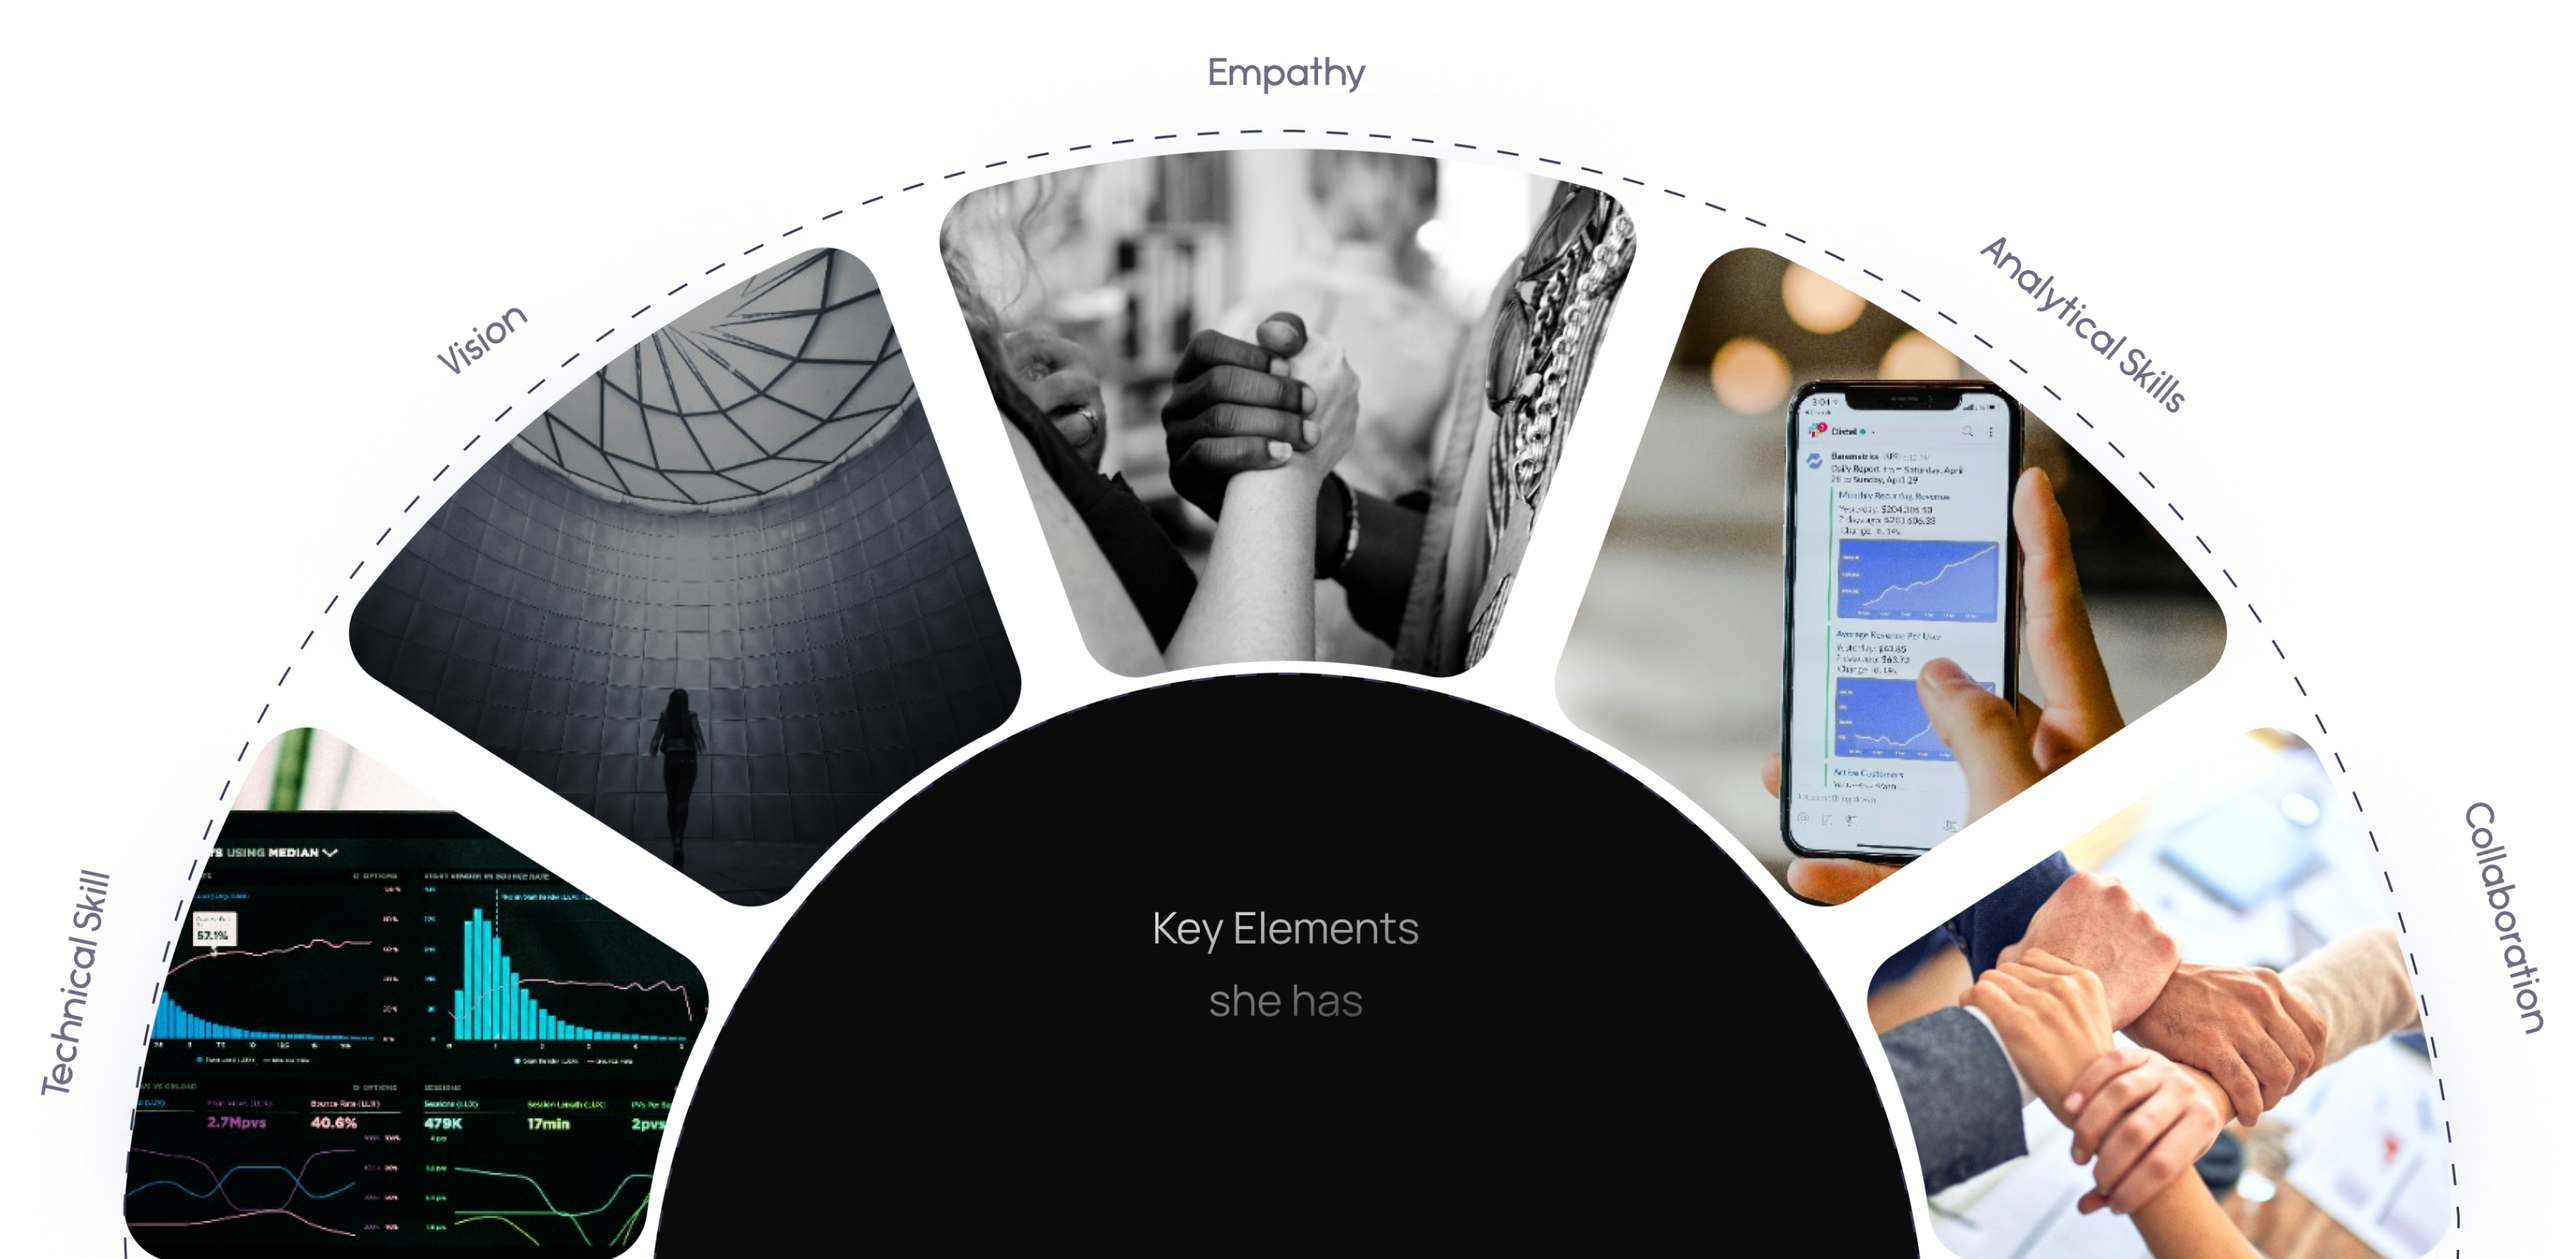
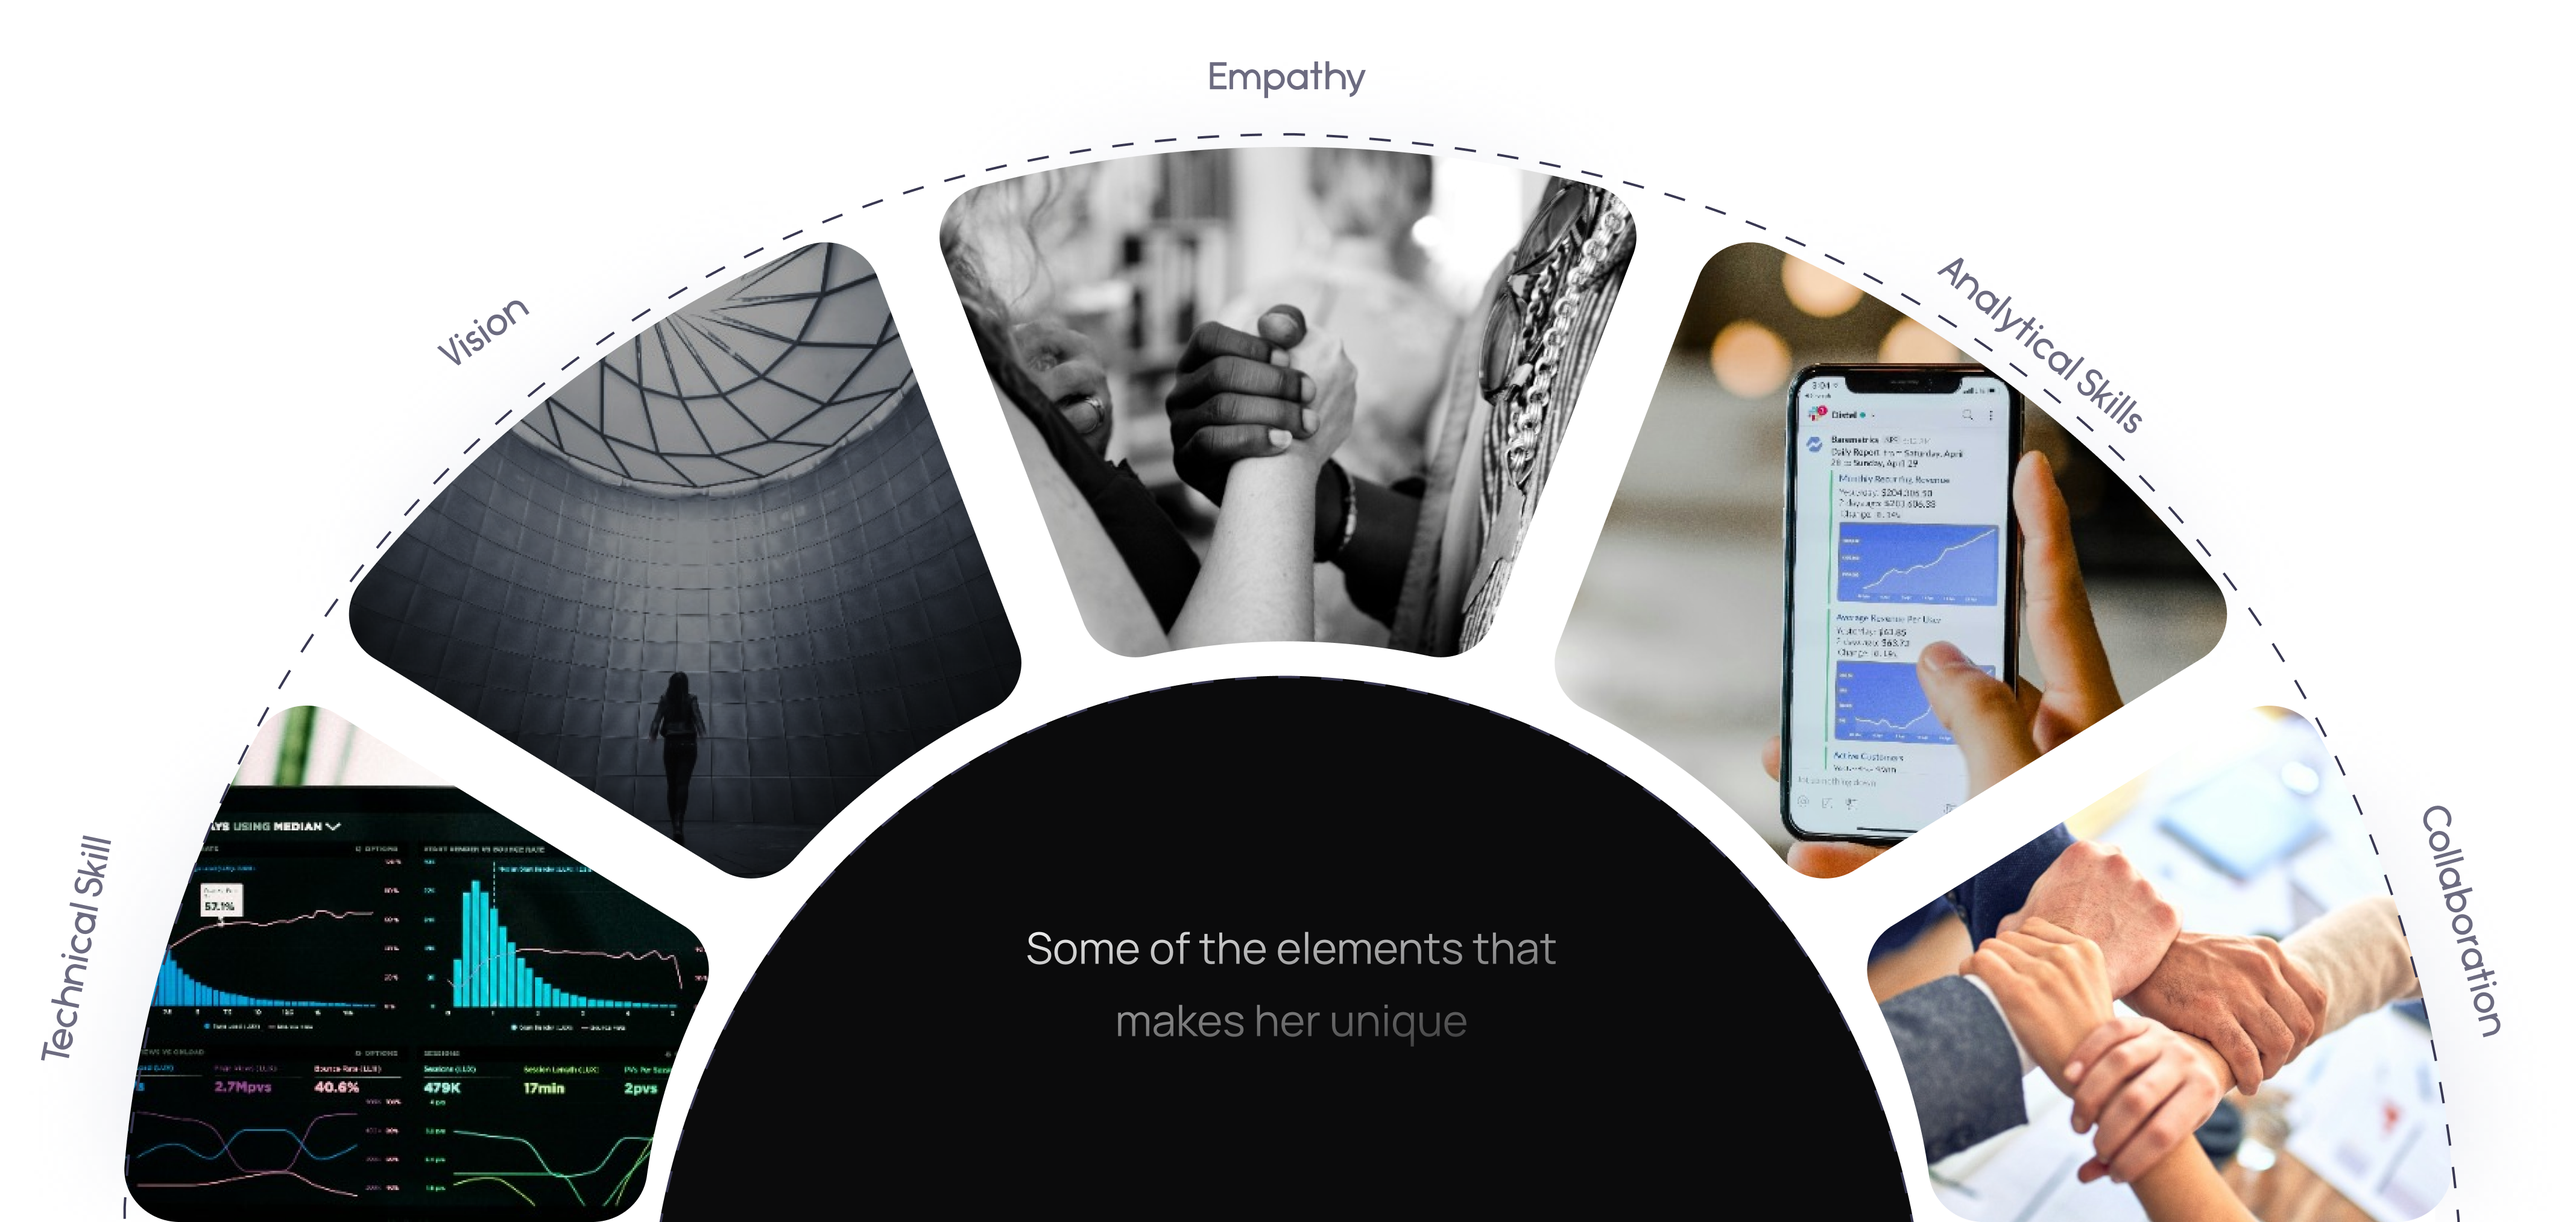
about us responsive remaining

diff --git a/pages/about-her.html b/pages/about-her.html
@@ -12,7 +12,7 @@
 
 <body>
 
-    <div>
+    <!-- <div>
         <div class="fullSec">
             <div class="nav">
                 <img src="assets_pages/logo.png" alt="Logo" class="logo">
@@ -40,7 +40,176 @@
                 </div>
             </div>
         </div>
+    </div> -->
+
+
+
+    <div class="backgroundAbout">
+        <div class="fullSec">
+            <div class="nav">
+                <a href="..\index.html">
+                    <img src="..\assets/logo.png" alt="Logo" class="logo">
+                </a>
+                <div class="menu-toggle">
+                    <div class="bar"></div>
+                    <div class="bar"></div>
+                    <div class="bar"></div>
+                </div>
+                <div id="navLeft">
+                    <div id="itemList">
+                        <ul class="nav_list">
+                            <li><a href="..\index.html">Home</a></li>
+                            <li><a href="../pages/about-her.html" class="active">About Her</a></li>
+                            <li><a href="../pages/projects.html"  >Projects</a></li>
+                            <li><a href="../pages/services.html">Services</a></li>
+                            <li><a href="../pages/contact.html">Contact Her</a></li>
+                        </ul>
+                    </div>
+        
+                    <div class="socialLinks"> 
+                        <a href="https://www.behance.net/ushaaryal1" target="_blank" rel="noopener noreferrer">
+                            <img src="..\assets/behance.png" alt="Behance" class="imageSize">
+                        </a>
+
+                        <a href="https://www.dribbble.com/ushaaryal" target="_blank" rel="noopener noreferrer">
+                            <img src="..\assets/dribbble.png" alt="Dribbble" class="imageSize">
+                        </a>
+                    </div>
+                </div>
+            </div>
+        </div>
+
+        <div class="headingAbout">
+            <div class="leftContainer">
+                <div class="meetContainer">
+                    <h1 class="textProperty8" >Meet Usha Aryal</h1>
+                    <p> Hi, I'm Usha Aryal, a passionate UI/UX Designer with over three years of experience in creating user-centered designs that blend creativity with strategic thinking. Currently, I work at Scodus Innovations, where I bring innovative and user-friendly solutions to life by collaborating closely with cross-functional teams.</p>
+                </div>
+                
+                <div class="btns">
+                    <a href="..\assets\Usha's CV.pdf">
+                        <button class="joinBtn"> Her as a Designer
+                        <i class="fas fa-downlozad"></i>
+                        </button>
+                    </a>
+                    
+                    <a href="..\assets\Usha's CV.pdf">
+                        <button class="joinBtn">Her as a Developer
+                        <i class="fas fa-download"></i>
+                        </button>
+                    </a>
+                </div>
+            </div>
+            
+            <div class="aboutMe"></div>
+
+        </div>
     </div>
+    
+    <div class="keyElements">
+        <div class="elementsContainer">
+            <h3>Know about the key element that makes her special</h3>
+            <div class="elementsCard">
+                <div class="cards">
+                    <div class="cardContent">  
+                        <div class="imgCard"></div>
+                        <div>
+                            <h5>Technical Skill</h5>
+                            <p>Nodpod is a beauty-focused sleepwear brand that believes in the science of deep touch pressure to promote relaxation and restful sleep. Their signature product, the Nodpod Sleep Mask, is a unique and innovative </p>
+                        </div>
+                    </div>
+                </div>
+
+                <div class="cards">
+                    <div class="cardContent"> 
+                        <div class="imgCard"></div>
+                        <div>
+                            <h5>Vision</h5>
+                            <p>Nodpod is a beauty-focused sleepwear brand that believes in the science of deep touch pressure to promote relaxation and restful sleep. Their signature product, the Nodpod Sleep Mask, is a unique and innovative </p>
+                        </div>
+                    </div>
+                </div>
+
+                <div class="cards">
+                    <div class="cardContent"> 
+                        <div class="imgCard"></div>
+                        <div>
+                            <h5>Empathy</h5>
+                            <p>Nodpod is a beauty-focused sleepwear brand that believes in the science of deep touch pressure to promote relaxation and restful sleep. Their signature product, the Nodpod Sleep Mask, is a unique and innovative </p>
+                        </div>
+                    </div>
+                </div>
+
+                <div class="cards">
+                    <div class="cardContent"> 
+                        <div class="imgCard"></div>
+                        <div>
+                            <h5>Analytical Skills </h5>
+                            <p>Nodpod is a beauty-focused sleepwear brand that believes in the science of deep touch pressure to promote relaxation and restful sleep. Their signature product, the Nodpod Sleep Mask, is a unique and innovative </p>
+                        </div>
+                    </div>
+                </div>
+
+                <div class="cards">
+                    <div class="cardContent"> 
+                        <div class="imgCard"></div>
+                        <div>
+                            <h5>Collaboration skills</h5>
+                            <p>Nodpod is a beauty-focused sleepwear brand that believes in the science of deep touch pressure to promote relaxation and restful sleep. Their signature product, the Nodpod Sleep Mask, is a unique and innovative </p>
+                        </div>
+                    </div>
+                </div>
+            </div>
+        </div>
+    </div>
+
+    <div class="join">
+        <div class="last-email-container">
+            <div class="email-downloadcv-container">
+                <h2 class="textGradient textt"> Hii, Let's create something awesome together.</h2>
+                <div class="buttons">
+                    <a href="mailto:u8900038@example.com">
+                        <button class="joinBtn">Email Her
+                            <i class="fas fa-envelope"></i> 
+                        </button>
+                    </a>
+                    
+                    <a href="..\assets\Usha's CV.pdf">
+                        <button class="joinBtn">Download  CV
+                        <i class="fas fa-download"></i>
+                        </button>
+                    </a>
+                </div>
+            </div>  
+        </div>
+    </div>
+
+    <div>
+        <div>
+            <div class="footer"> 
+                <ul class="footer_list">
+                    <li><a href="../pages/about-her.html">About Her</a></li>
+                    <li><a href="../pages/projects.html">Projects</a></li>
+                    <li><a href="../pages/services.html">Services</a></li>
+                    <li><a href="../pages/contact.html">Contact Her</a></li>
+                </ul>
+                <div class="socialLinks"> 
+                    <a href="https://www.behance.net/ushaaryal1" target="_blank" rel="noopener noreferrer">
+                        <img src="..\assets/behance.png" alt="Behance" class="imageSize linkFooter">
+                    </a>
+
+                    <a href="https://www.dribbble.com/ushaaryal" target="_blank" rel="noopener noreferrer">
+                        <img src="..\assets/dribbble.png" alt="Dribbble" class="imageSize linkFooter">
+                    </a>
+                </div>
+                <h7> ©2024 usha portfolio. All rights reserved </h7>
+            </div>
+            
+        </div>
+    </div>
+    
+
+    <script src="script.js"></script>
 
 
 </body>

diff --git a/pages/style.css b/pages/style.css
@@ -1843,4 +1843,123 @@ section {
 
 
   
+/* about us  */
+
+.backgroundAbout{
+    background: url("../assets/about-me-background.png") center/cover no-repeat;
+    height: 840px;
+    margin: 0;
+}
+
+.backgroundAbout .meetContainer{
+    width: 510px;
+}
+
+
+.headingAbout{
+    display: flex;
+    flex-direction: row;
+    gap: 28px;
+    flex-shrink: 0;
+    align-items: center;
+    justify-content: center;
+}
+
+.headingAbout .leftContainer{
+    height:520px;
+}
+
+.headingAbout h1{
+    line-height: 123%;
+    height: 100px;
+    text-align: left;
+}
+
+.textProperty8{
+    background: linear-gradient(272deg, #ebeaea 60%, #828080 86.45%, #141415 113.83%);
+    background-clip: text;
+    -webkit-background-clip: text;
+    -webkit-text-fill-color: transparent;
+}
+
+.headingAbout p{
+    color: #9A99A5;
+    font-size: 18px;
+    font-weight: 400;
+    line-height: 182%;
+    margin-bottom: 50px;
+}
+
+.aboutMe{
+    background: url("../assets/aboutMe.png") center/cover no-repeat;
+    width: 598px;
+    height: 568px;
+}
+
+.keyElements{
+    width: 100vw;
+    
+}
+
+.elementsContainer{
+    display: flex;
+    align-items: center;
+    flex-direction: column;
+    gap: 0px;
+    margin-top: 80px;
+    
+}
+
+.keyElements h3{
+    width: 603.172px;
+    font-weight: 600;
+    line-height: 132%;
+    font-size: 40px;
+    background: linear-gradient(257deg, #FFF 8.68%, #828080 89.61%, #141415 102.81%);
+    background-clip: text;
+    -webkit-background-clip: text;
+    -webkit-text-fill-color: transparent;
+    text-align: center;
+}
+
+.keyElements .cards{
+    display: flex;
+    padding: 60px 40px;
+    align-items: center;
+    gap: 10px;
+    border-radius: 14px;
+    background: #181818;
+}
+
+.elementsCard{
+    display: grid;
+    grid-template-columns: repeat(3, 1fr); /* Three columns for the first row */
+    gap: 40px;
+    padding: 90px 160px 100px 160px;
+    justify-items: center;
+    align-items: center;
+}
+
+
+
+.cardContent{
+    display: flex;
+    align-items: center;
+    gap: 10px;
+}
+
+.cardContent h5{
+    font-weight: 600;
+    line-height: 145%;
+    font-size: 18px;
+    color: #EAEAEA;
+}
+
+.cards p{
+    color: var(--Grayscale-400, #9D9CAF);
+    font-size: 14px;
+    font-weight: 400;
+    line-height: 215%; 
+    margin-top: 1.4em;
+}
 

diff --git a/pages/script.js b/pages/script.js
@@ -22,25 +22,6 @@ document.addEventListener("DOMContentLoaded", function () {
   }
 });
 
-// document.addEventListener('DOMContentLoaded', () => {
-//   const menuToggle = document.querySelector('.menu-toggle');
-//   const navLeft = document.querySelector('.navLeft');
-
-//   // Check if elements exist before attaching listeners
-//   if (menuToggle && navLeft) {
-//     console.log(menuToggle); // Log the menu toggle element
-//     console.log(navLeft); // Log the navLeft element
-
-//     menuToggle.addEventListener('click', () => {
-//       navLeft.classList.toggle('active');
-//       menuToggle.classList.toggle('open');
-//       console.log('Menu toggled!'); // Log to confirm the toggle event
-//     });
-//   } else {
-//     console.error('Menu toggle or navLeft element is missing in the DOM.');
-//   }
-// });
-
 
 // Smooth Scrolling for Sidebar Links
 document.querySelectorAll(".sidebar nav ul li a").forEach(link => {
